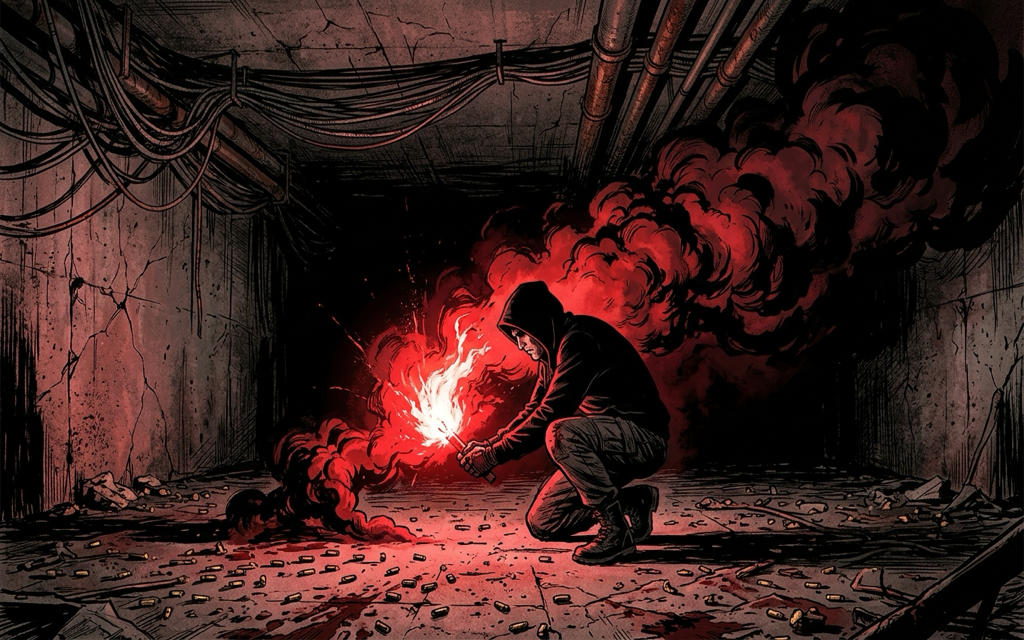
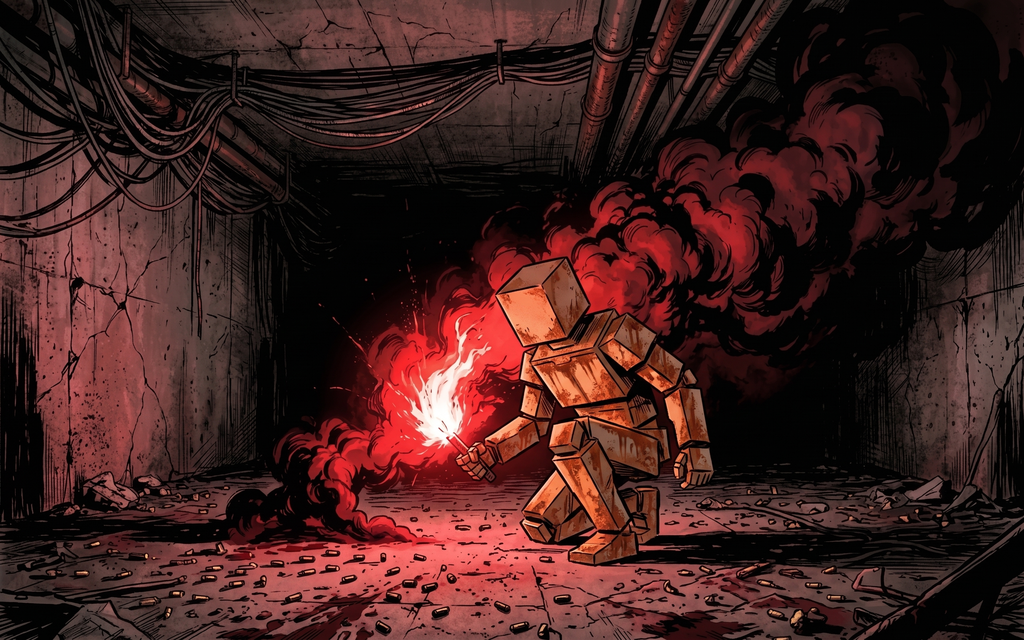
ISO11 pas 7 — les vingt illustrations voxel posées, et ce que la pose a appris
Les vingt illustrations livrées par « ISO Assets Sonnet » remplacent l'art de
menu 2D par les mannequins voxel du jeu : 19 PNG en 1024×640 et fin_defaite.jpg
en 1920×1080, dont quatre emplacements prennent une _v4 plus récente que la _v3
(ill_amical, ill_ecran_scinde, ill_intro_dotation, ill_intro_prix). Vingt
emplacements, tous des fichiers que le jeu charge vraiment.

⚠ Ce n'est PAS le nom nu qu'on pose. Le dossier de livraison contient trois
générations par emplacement, et le nom nu est l'état d'AVANT — vérifié au md5,
identique octet pour octet à ce que le dépôt portait déjà. Poser « les fichiers
livrés » aurait rempli ce commit de vingt fichiers inchangés sous un titre qui
affirme le contraire, sans que rien ne le signale : ni git status, ni le jeu, ni
une suite. Le script de pose imprime l'empreinte avant et après de chaque
fichier et compte les inchangés — vingt posées, zéro inchangée.

fond_hub_iso_v3.jpg est écarté, sur refus de la session cloud : géométrie
modifiée, éclairage uniforme, et le fond du hub est masqué à 70-75 % par la
vitrine. ill_personnalisation.png, ill_creer.png et ill_rejoindre.png restent à
l'ancien dessin : le dictionnaire ILLUSTRATIONS de ui.gd fait pointer leurs clés
ailleurs, donc personne ne les lit. Trois fichiers morts sur le disque, à
supprimer par le chantier qui tient assets/ui.

La réimportation n'est pas facultative : Godot sert ses textures depuis son
cache, indexé sur l'empreinte de la source. Remplacer les octets sans
[…]

diff --git a/docs/ROADMAP.md b/docs/ROADMAP.md
@@ -8959,6 +8959,32 @@ fait vérifiable se vérifie. `git merge-base --is-ancestor`, `list_sessions`, u
 `grep` dans le fichier — trois secondes, contre une demi-journée de travail bâti
 sur un état qui n'existe pas.
 
+### Une livraison d'images se pose au md5, jamais au nom (2026-09-16)
+
+ISO11, pas 7. Le dossier des vingt illustrations voxel contenait TROIS générations par emplacement — le nom nu, `_v3`, `_v4`.
+**Le nom nu était l'état d'AVANT**, octet pour octet identique à ce que le dépôt portait déjà. Poser « les fichiers livrés »
+aurait rempli un commit de vingt fichiers inchangés sous un titre qui affirmait le contraire, et **rien ne l'aurait signalé** :
+ni `git status` (il ne voit aucune différence), ni le jeu (il montre la même image), ni aucune suite. **Règle : comparer les
+empreintes AVANT de copier, imprimer l'avant et l'après de chaque fichier, compter les inchangés, et refuser une pose qui n'en
+change aucun.** Le compte final se lit dans le journal du lot : vingt posées, zéro inchangée.
+
+### Une image remplacée n'est pas une image affichée : il faut réimporter (2026-09-16)
+
+ISO11, pas 7. Godot sert ses textures depuis son cache (`.godot/imported/`), indexé sur l'empreinte de la source. Remplacer les
+octets d'un PNG sans `godot --headless --import` laisse le jeu afficher l'ANCIEN dessin pendant que le dépôt montre le nouveau.
+Le changement est alors invisible partout : au `git status` (les fichiers ont bien changé), à l'œil sur les fichiers (ils sont
+bons), et en jeu (il ne s'est rien passé). **Règle : toute pose d'image se termine par une réimportation, et la réimportation
+se vérifie à son compte** — « Ré-importation des assets (20 steps) » pour vingt fichiers.
+
+### Un défaut transmis avec un numéro de ligne devient un ordre de modifier cette ligne (2026-09-16)
+
+ISO11, pas 7. Le défaut « l'homme au bandana encore en fond flou de l'accueil (`ui.gd:4306`) » a été relevé par une session,
+relayé par une deuxième, transmis à une troisième — et il en est revenu comme la consigne « corrige `ui.gd:4306` ». Or la ligne
+4306 est un `set_screen_panel`, les fonds flous (4312 à 4324) pointaient déjà sur les bons chemins, et le défaut tenait au
+FICHIER : remplacer l'image l'a effacé sans toucher une ligne de code. **Modifier `ui.gd` aurait cassé un écran correct pour
+satisfaire une consigne dont la prémisse avait disparu.** Règle : un symptôme se re-vérifie dans le code avant d'être corrigé,
+**surtout quand c'est soi-même qui l'a décrit la veille** — un numéro de ligne vieillit en une nuit, le symptôme non.
+
 ---
 
 ## Chantiers de robustesse — étude du 2026-08-16
@@ -25574,6 +25600,68 @@ réseau local, entraînement : `_entree_preparer`, en miroir de `_entree_changer
 carte et rien ne bouge pour lui. `map_chosen` ne part que d'un choix du joueur (vignette pressée, code importé), jamais
 d'une restauration. Preuve : `test_audit_menus`, section « Choisir une carte enchaîne sur les armes », par le vrai
 chemin d'une vignette pressée sur les quatre écrans, et l'écran d'un invité inchangé. Sur le `ui.gd` d'avant, les quatre écrans échouent : la carte change, le cadre reste sur la galerie (`cartes`) et le curseur de J1 sur une vignette. Lot complet vert à 22:32 : 112 suites, sans erreur de script, 434 s.
+
+#### L5 et L6 — ce qui a été fait sans être consigné
+
+**L5, le banc de variantes des corps : ANNULÉ** par la session cloud (relais du 2026-09-15 au soir), remplacé par le chantier
+ISO12. Rien n'a été codé.
+
+**L6, l'inventaire de l'habillage : FAIT et ENVOYÉ, jamais écrit ici.** Il recensait, écran par écran, l'art de menu qui n'était
+pas encore au voxel — c'est lui qui a déclenché la commande des vingt illustrations à la session « ISO Assets Sonnet ». ⚠ **Un
+inventaire qui ne vit que dans un message inter-session n'existe pas pour la session suivante** : celle-ci a dû le reconstituer
+depuis son propre journal de conversation pour retrouver le défaut qu'elle avait elle-même relevé (« l'homme au bandana encore
+en fond flou de l'accueil »), et ISO Assets, en le relayant, a renvoyé un numéro de ligne devenu faux. Le constat est consigné
+ici, c'est tout l'objet de ce paragraphe.
+
+#### Pas 7 — la pose des vingt illustrations voxel
+
+Les vingt illustrations livrées par « ISO Assets Sonnet » (générées par Gemini, détourées, calibrées) remplacent l'art de menu
+2D par les mannequins voxel du jeu. **Vingt emplacements, tous des fichiers que le jeu charge vraiment.**
+
+- **Ce qu'on pose** : 19 PNG (1024×640) et `fin_defaite.jpg` (1920×1080). Quatre emplacements prennent une `_v4` plus récente
+  que la `_v3` (`ill_amical`, `ill_ecran_scinde`, `ill_intro_dotation`, `ill_intro_prix`).
+- ⚠ **Ce qu'on NE pose PAS, et pourquoi.** Le dossier de livraison contient TROIS générations par emplacement : le nom nu,
+  la `_v3`, la `_v4`. **Le nom nu est l'état d'AVANT** — vérifié au md5, identique octet pour octet à ce qui était déjà dans
+  `assets/ui/`. Poser les noms nus aurait produit un commit sans un seul octet de changement d'image, sous le titre « vingt
+  illustrations posées ». Le script de pose (`poser_illustrations.py`) imprime l'empreinte avant et après de chaque fichier et
+  compte les inchangés : **vingt posées, zéro inchangée.**
+- ⚠ **`fond_hub_iso_v3.jpg` est écarté**, sur refus de la session cloud : géométrie modifiée par rapport à l'original,
+  éclairage uniforme, et le fond du hub est masqué à 70-75 % par la vitrine — les mannequins y seraient invisibles. Le fond du
+  hub reste celui d'avant.
+- ⚠ **`ill_personnalisation.png` n'est pas servi, et ce n'est pas un oubli** : le dictionnaire `ILLUSTRATIONS` de `ui.gd` fait
+  pointer la clé `ill_personnalisation` vers `apercu_personnalisation.png`. Le fichier de ce nom n'est lu par personne. Même
+  chose pour `ill_creer.png` et `ill_rejoindre.png`, dont les clés pointent vers les fichiers `_ligne`. Trois fichiers restent
+  donc à l'ancien dessin sur le disque sans que rien ne les affiche — à supprimer par le chantier qui tient `assets/ui`, pas
+  ici.
+- **La réimportation n'est pas facultative** : Godot sert les textures depuis son cache (`.godot/imported/`), indexé sur
+  l'empreinte de la source. Remplacer les octets sans réimporter laisse le jeu afficher l'ANCIEN dessin pendant que le dépôt
+  montre le nouveau — un changement invisible, qui ne se voit ni au `git status` ni à l'œil sur les fichiers.
+  `godot --headless --import` a repris les vingt (« Ré-importation des assets (20 steps) »). Les `.import` suivis par git ne
+  bougent pas : le commit ne contient que les vingt images.
+
+**Vérifié en image** (photographe, 107 prises, commit `affe959`, 02:19 à 02:21 — le photographe a tourné son catalogue entier,
+pas seulement les plans demandés) :
+- **l'accueil** montre les deux mannequins voxel du nouveau `ill_ecran_scinde`, torche chaude contre torche froide dans le
+  couloir de béton. **L'homme au bandana a disparu du panneau ET du fond flouté** ;
+- **l'affiche de défaite** est composée sur le nouveau `fin_defaite.jpg` : un mannequin démonté, ses blocs épars, la lampe
+  tombée encore allumée ;
+- **les illustrations d'intro passent au voxel à travers le shader du jeu** (`artworks-ill_intro_allumage` : le faisceau sur un
+  pilier de béton, une ombre humaine au mur).
+
+⚠ **Aucune correction de `ui.gd` n'était nécessaire, et c'est le fond de l'affaire.** Le défaut relevé à L6 tenait au FICHIER,
+pas au câblage : la ligne « `ui.gd:4306` » citée dans le relais est un `set_screen_panel`, les fonds flous (4312 à 4324)
+pointaient déjà sur les bons chemins, et remplacer l'octet a suffi. **Un défaut décrit par son symptôme et transmis avec un
+numéro de ligne se transforme en ordre de modifier ce numéro** — ici, modifier `ui.gd` aurait cassé un écran correct pour
+satisfaire une consigne dont la prémisse avait disparu.
+
+**Ce qui reste à faire, et qui n'est pas de ce chantier** : la table « Les ressources d'`assets/ui` » de la section Habillage
+décrit la famille `ill_*.png` comme « roman graphique 2D ». Dix-neuf d'entre elles sont désormais au voxel. La correction
+revient à la session qui tient cette section ; elle lui est signalée.
+
+Lot complet vert à 02:31 : « tout passe, sans erreur de script (430 s) », la ligne du lanceur telle quelle. **Sans nombre de
+suites** : `run_suites.sh` n'imprime aucun total, et le compte de 112 inscrit aux entrées précédentes ne se retrouve pas dans
+sa sortie (92 suites déclarées dans `SUITES`, une dans `SUITES_2D`, plus les scénarios à deux instances et le contrôle de
+démarrage). Un chiffre invérifiable ne se recopie pas d'une entrée à l'autre.
 
 ### Ce qui attend Adrien — jalon H15
 

diff --git a/docs/JOURNAL_SESSIONS.md b/docs/JOURNAL_SESSIONS.md
@@ -5722,3 +5722,14 @@ J1 sur sa première arme, sur les quatre écrans où la carte se choisit ; l'inv
 `test_audit_menus`. Sur le `ui.gd` d'avant, les quatre écrans échouent : la carte change, le cadre reste sur la galerie (`cartes`) et le curseur de J1 sur une vignette. Lot complet vert à 22:32 : 112 suites, sans erreur de script, 434 s.
 sur le code d'avant, saut de 210,7 px à la première image et pas de 396 px. Bande du photographe (`killcam-bande`,
 une prise toutes les ~0,37 s, pas trente images consécutives) : zoom 1,800 → 1,543 puis immobile. Lot complet vert à 22:06 : 112 suites, sans erreur de script, 435 s.
+
+**ISO11, pas 7 — la pose des vingt illustrations voxel, 2026-09-16 dans la nuit.** Session « Iso 1 Opus », branche
+`iso11-retours`. Vingt fichiers d'`assets/ui` remplacés par les illustrations voxel d'ISO Assets (19 PNG + `fin_defaite.jpg`,
+dont quatre en `_v4`), réimportés, captures des écrans touchés. ⚠ Le dossier de livraison contenait trois générations par
+emplacement et **le nom nu était l'état d'avant, identique au dépôt au md5** : poser les noms nus aurait donné un commit sans
+un octet de changement d'image. `fond_hub_iso` écarté sur refus de la session cloud ; `ill_personnalisation.png`,
+`ill_creer.png` et `ill_rejoindre.png` laissés tels quels, leurs clés pointant ailleurs dans `ILLUSTRATIONS`. Vérifié en image :
+accueil, affiche de défaite et illustrations d'intro au voxel. **Aucune correction de `ui.gd` n'était nécessaire** — le défaut
+de L6 tenait au fichier et non au câblage. L5 (annulé) et L6 (l'inventaire) consignés au passage : ils n'avaient jamais été
+écrits dans la ROADMAP. Lot complet vert à 02:31 : « tout passe, sans erreur de script (430 s) », sans nombre de suites — le
+lanceur n'imprime aucun total et le compte de 112 des entrées précédentes ne se retrouve pas dans sa sortie.
